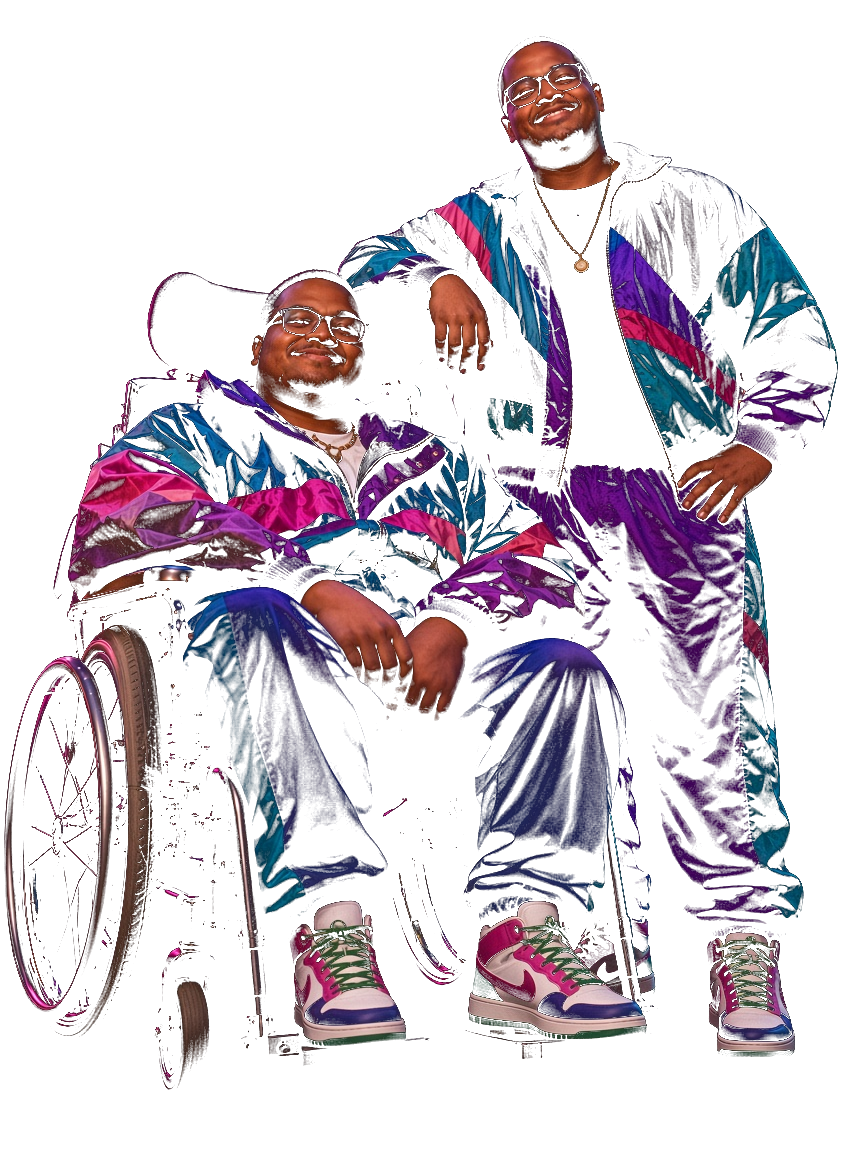
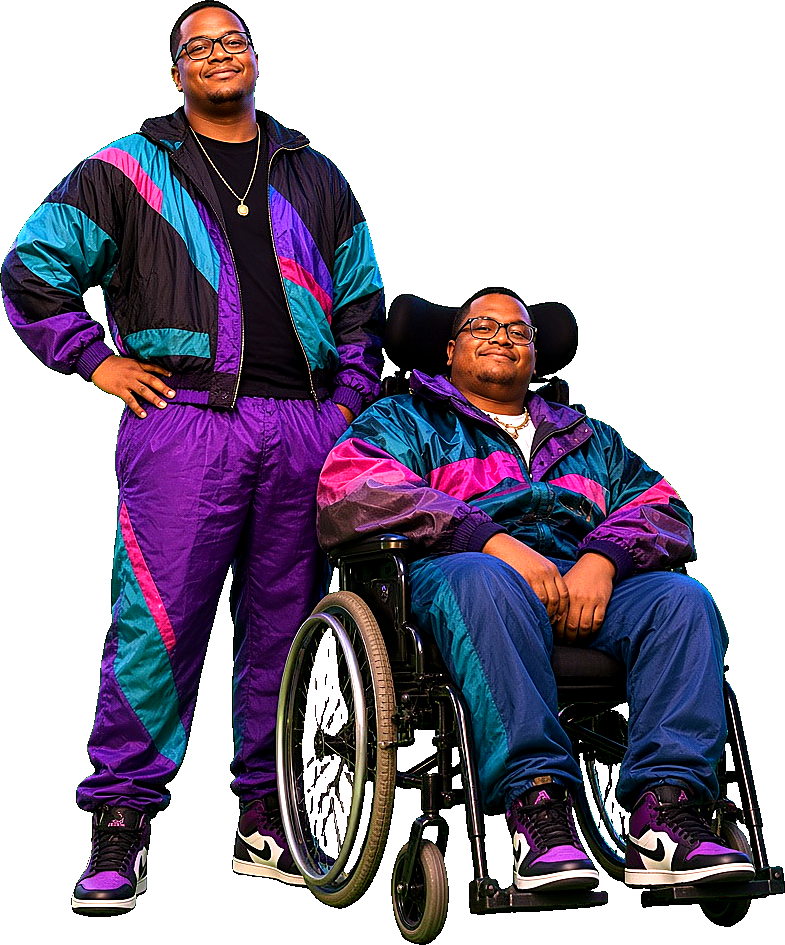
Hard hero cutout + physical cassette pile
RemBG binary-alpha couple on separate Miami BG; cassette stack uses real jewel-case art with handwritten labels, hover wiggle, insert into boombox.

diff --git a/src/components/Cassette.tsx b/src/components/Cassette.tsx
@@ -1,88 +1,102 @@
 "use client";
 
 import { motion } from "framer-motion";
+import Image from "next/image";
 import type { Track } from "@/lib/types";
 
-/** Photoreal-ish horizontal cassette case with handwritten label (HTML text). */
+/** Physical cassette jewel-case pile — not neon UI rows. */
 export function Cassette({
   track,
   index,
+  total,
   selected,
   inserting,
   onSelect,
 }: {
   track: Track;
   index: number;
+  total: number;
   selected: boolean;
   inserting: boolean;
   onSelect: () => void;
 }) {
+  // Overlapping pile: each tape mostly covers the one below, slight skew
+  const restRotate = -3 + index * 0.7 + (index % 2 ? 1.4 : -1);
+  // Enough offset that each handwritten label stays visible in the pile
+  const restY = index * 58;
+  const restX = index * 4 + (index % 2 ? 10 : -2);
+
   return (
     <motion.button
       type="button"
-      layout
       onClick={onSelect}
       initial={false}
-      whileHover={{ x: 10, rotate: -1.5, scale: 1.03 }}
-      whileTap={{ scale: 0.97 }}
+      className="absolute left-1/2 w-[min(100%,310px)] -translate-x-1/2 border-0 bg-transparent p-0 outline-none focus-visible:ring-2 focus-visible:ring-pink-400/50"
+      style={{ top: 0, zIndex: inserting ? 50 : total - index + (selected ? 20 : 0) }}
       animate={
         inserting
-          ? { x: -120, y: -40, rotate: -18, scale: 0.55, opacity: 0.35 }
-          : selected
-            ? { x: 8, scale: 1.04, boxShadow: "0 0 22px #ff2bd680" }
-            : { x: 0, y: 0, rotate: 0, scale: 1, opacity: 1 }
+          ? { x: "-70%", y: restY - 120, rotate: -32, scale: 0.4, opacity: 0.15 }
+          : {
+              x: `calc(-50% + ${restX}px)`,
+              y: restY,
+              rotate: selected ? restRotate - 1.5 : restRotate,
+              scale: selected ? 1.05 : 1,
+              opacity: 1,
+            }
       }
-      transition={{ type: "spring", stiffness: 260, damping: 22 }}
-      className="group relative block w-full max-w-[280px] text-left"
-      style={{ zIndex: selected ? 20 : 10 - index }}
+      whileHover={
+        inserting
+          ? undefined
+          : {
+              rotate: restRotate + (index % 2 ? -5 : 5),
+              y: restY - 10,
+              x: `calc(-50% + ${restX + (index % 2 ? -14 : 14)}px)`,
+              transition: { type: "spring", stiffness: 420, damping: 12 },
+            }
+      }
+      whileTap={{ scale: 0.95 }}
+      transition={{ type: "spring", stiffness: 260, damping: 18 }}
+      aria-label={`${track.artist} – ${track.title}`}
       aria-pressed={selected}
     >
-      <div
-        className="relative overflow-hidden rounded-[6px] border border-white/30 shadow-[0_12px_28px_#000a]"
-        style={{
-          background: `linear-gradient(135deg, ${track.color}cc, ${track.color}55 40%, #111 100%)`,
-        }}
-      >
-        <div className="m-[6px] rounded-[3px] border border-black/40 bg-[#0c0c10]">
-          <div className="relative flex h-[58px] items-center gap-3 px-3 sm:h-[64px]">
-            <div className="flex gap-3">
-              <Reel spinning={selected} />
-              <Reel spinning={selected} />
-            </div>
-            <div className="min-w-0 flex-1">
-              <p
-                className="tape-label truncate text-[15px] text-white drop-shadow sm:text-[17px]"
-                style={{ textShadow: "0 0 8px #000" }}
-              >
-                {track.artist} – {track.title}
-              </p>
-              <p className="text-[9px] uppercase tracking-[0.2em] text-white/70">
-                Side A · Tape {index + 1}
-              </p>
-            </div>
-          </div>
-          <div
-            className="h-2 w-full"
-            style={{ background: track.color, boxShadow: `0 0 12px ${track.color}` }}
+      <span className="relative block">
+        <Image
+          src="/images/cassette-case-blank.png"
+          alt=""
+          width={620}
+          height={350}
+          className="pointer-events-none h-auto w-full select-none"
+          style={{
+            filter: "drop-shadow(0 16px 22px rgba(0,0,0,0.65))",
+          }}
+          draggable={false}
+        />
+        {/* Physical paper label — cream paper + colored ink handwriting */}
+        <span
+          className="pointer-events-none absolute left-[13%] right-[13%] top-[36%] flex h-[26%] flex-col justify-center overflow-hidden rounded-[1px] px-2.5 py-1"
+          style={{
+            background:
+              "linear-gradient(180deg, #f7f0e1 0%, #efe6d2 55%, #e5d9c0 100%)",
+            boxShadow: "inset 0 0 0 1px rgba(0,0,0,0.2), 0 1px 2px rgba(0,0,0,0.25)",
+          }}
+        >
+          <span
+            className="block h-1 w-full mb-1 rounded-sm opacity-90"
+            style={{ background: track.color }}
+            aria-hidden
           />
-        </div>
-        <div className="pointer-events-none absolute inset-0 bg-gradient-to-br from-white/25 via-transparent to-transparent" />
-      </div>
+          <span
+            className="block truncate font-[family-name:var(--font-script)] text-[15px] leading-none sm:text-[17px]"
+            style={{ color: track.color, transform: "rotate(-1deg)" }}
+          >
+            {track.artist} – {track.title}
+          </span>
+        </span>
+      </span>
     </motion.button>
   );
 }
 
-function Reel({ spinning }: { spinning: boolean }) {
-  return (
-    <motion.span
-      className="relative block h-7 w-7 rounded-full border border-zinc-500 bg-gradient-to-br from-zinc-200 to-zinc-500 shadow-inner"
-      animate={spinning ? { rotate: 360 } : { rotate: 0 }}
-      transition={
-        spinning ? { duration: 1.1, repeat: Infinity, ease: "linear" } : { duration: 0.3 }
-      }
-    >
-      <span className="absolute left-1/2 top-1/2 h-2 w-2 -translate-x-1/2 -translate-y-1/2 rounded-full bg-zinc-800" />
-      <span className="absolute inset-[3px] rounded-full border border-dashed border-zinc-600/80" />
-    </motion.span>
-  );
+export function CassetteStackHeight(count: number) {
+  return 58 * Math.max(count - 1, 0) + 180;
 }

diff --git a/src/components/Mixtape.tsx b/src/components/Mixtape.tsx
@@ -4,7 +4,7 @@ import { AnimatePresence, motion, useScroll, useTransform } from "framer-motion"
 import Image from "next/image";
 import { useEffect, useRef, useState } from "react";
 import type { Track } from "@/lib/types";
-import { Cassette } from "./Cassette";
+import { Cassette, CassetteStackHeight } from "./Cassette";
 import { useLightParallax } from "./Parallax";
 
 export function Mixtape({
@@ -44,7 +44,7 @@ export function Mixtape({
     setInsertingId(id);
     setActiveId(id);
     setPlaying(true);
-    window.setTimeout(() => setInsertingId(null), 650);
+    window.setTimeout(() => setInsertingId(null), 700);
   };
 
   const togglePlay = async () => {
@@ -63,6 +63,8 @@ export function Mixtape({
     }
   };
 
+  const stackH = CassetteStackHeight(sorted.length);
+
   return (
     <section
       ref={sectionRef}
@@ -80,8 +82,7 @@ export function Mixtape({
         <div className="absolute inset-0 bg-gradient-to-b from-[#05010f] via-transparent to-[#05010f]" />
       </motion.div>
 
-      <div className="relative z-10 mx-auto grid min-h-[100svh] max-w-6xl items-end gap-6 px-4 pb-16 pt-28 md:grid-cols-[1.15fr_0.85fr] md:items-center md:px-6 md:pb-24">
-        {/* Boombox + headphones on the table */}
+      <div className="relative z-10 mx-auto grid min-h-[100svh] max-w-6xl items-end gap-8 px-4 pb-16 pt-28 md:grid-cols-[1.1fr_0.9fr] md:items-center md:gap-4 md:px-6 md:pb-24">
         <motion.div className="relative" style={{ y: propY }}>
           <div className="relative mx-auto w-full max-w-xl">
             <Image
@@ -90,24 +91,33 @@ export function Mixtape({
               width={900}
               height={560}
               className="h-auto w-full drop-shadow-[0_30px_50px_#000c]"
-              priority={false}
             />
-            {/* Spinning reels overlay on deck area */}
             <div className="pointer-events-none absolute left-[28%] top-[42%] flex gap-8 sm:left-[30%] sm:top-[44%] sm:gap-12">
               <DeckReel spinning={playing} />
               <DeckReel spinning={playing} />
             </div>
-            {/* Inserting tape ghost */}
             <AnimatePresence>
               {insertingId && active && (
                 <motion.div
                   key={insertingId}
-                  initial={{ opacity: 0, x: 80, y: 40, scale: 0.6 }}
-                  animate={{ opacity: 1, x: 0, y: 0, scale: 0.85 }}
-                  exit={{ opacity: 0, scale: 0.4, y: -10 }}
-                  className="absolute left-[32%] top-[38%] h-10 w-28 rounded-sm border border-white/40"
-                  style={{ background: active.color }}
-                />
+                  initial={{ opacity: 0, x: 100, y: 50, rotate: 12, scale: 0.7 }}
+                  animate={{ opacity: 1, x: 0, y: 0, rotate: 0, scale: 0.9 }}
+                  exit={{ opacity: 0, scale: 0.3, y: -8 }}
+                  transition={{ duration: 0.45 }}
+                  className="absolute left-[30%] top-[36%] z-10 w-[34%]"
+                >
+                  <Image
+                    src="/images/cassette-case-blank.png"
+                    alt=""
+                    width={280}
+                    height={160}
+                    className="h-auto w-full"
+                  />
+                  <div
+                    className="absolute left-[14%] right-[14%] top-[38%] h-[22%] rounded-[2px]"
+                    style={{ background: active.color }}
+                  />
+                </motion.div>
               )}
             </AnimatePresence>
             <Image
@@ -141,36 +151,37 @@ export function Mixtape({
           <audio ref={audioRef} preload="none" onEnded={() => setPlaying(false)} className="hidden" />
         </motion.div>
 
-        {/* Cassette stack */}
-        <div className="relative pb-6 md:pb-0">
-          <div className="mb-6 flex items-start gap-3">
+        {/* Physical cassette pile on the table */}
+        <div className="relative pb-4 md:pb-0">
+          <div className="mb-5 flex items-end gap-3">
             <h2 className="neon-script-lg text-3xl leading-tight sm:text-4xl md:text-5xl">
               {headline}
             </h2>
             <svg
-              className="mt-3 hidden shrink-0 text-neon-pink sm:block"
+              className="mb-2 hidden shrink-0 text-neon-pink sm:block"
               width="56"
-              height="40"
-              viewBox="0 0 56 40"
+              height="36"
+              viewBox="0 0 56 36"
               fill="none"
               aria-hidden
             >
               <path
-                d="M4 20c12-12 28-14 40-8"
+                d="M4 18c12-10 28-12 40-6"
                 stroke="currentColor"
                 strokeWidth="2.5"
                 strokeLinecap="round"
-                filter="url(#g)"
               />
               <path d="M38 8l10 6-8 4" stroke="currentColor" strokeWidth="2.5" strokeLinecap="round" />
             </svg>
           </div>
-          <div className="flex flex-col gap-3">
+
+          <div className="relative mx-auto w-full max-w-[320px]" style={{ height: stackH }}>
             {sorted.map((t, idx) => (
               <Cassette
                 key={t.id}
                 track={t}
                 index={idx}
+                total={sorted.length}
                 selected={t.id === active?.id}
                 inserting={insertingId === t.id}
                 onSelect={() => selectTape(t.id)}

diff --git a/src/components/Hero.tsx b/src/components/Hero.tsx
@@ -13,52 +13,54 @@ export function Hero({ content }: { content: SiteContent }) {
     target: ref,
     offset: ["start start", "end start"],
   });
-  const bgY = useTransform(scrollYProgress, [0, 1], light ? ["0%", "0%"] : ["0%", "22%"]);
-  const coupleY = useTransform(scrollYProgress, [0, 1], light ? ["0%", "0%"] : ["0%", "10%"]);
-  const coupleX = useTransform(scrollYProgress, [0, 1], light ? ["0%", "0%"] : ["0%", "-3%"]);
-  const textY = useTransform(scrollYProgress, [0, 1], light ? ["0%", "0%"] : ["0%", "28%"]);
-  const textOpacity = useTransform(scrollYProgress, [0, 0.7], [1, 0.15]);
+  const bgY = useTransform(scrollYProgress, [0, 1], light ? ["0%", "0%"] : ["0%", "18%"]);
+  const coupleY = useTransform(scrollYProgress, [0, 1], light ? ["0%", "0%"] : ["0%", "8%"]);
+  const textY = useTransform(scrollYProgress, [0, 1], light ? ["0%", "0%"] : ["0%", "22%"]);
+  const textOpacity = useTransform(scrollYProgress, [0, 0.75], [1, 0.2]);
 
   return (
     <section ref={ref} id="home" className="relative min-h-[100svh] w-full overflow-hidden">
-      {/* Layer 1 — Miami night / palms */}
-      <motion.div className="absolute inset-[-8%] z-0" style={{ y: bgY }}>
+      {/* Separate Miami night / palm background */}
+      <motion.div className="absolute inset-[-6%] z-0" style={{ y: bgY }}>
         <Image
           src="/images/hero-bg-miami.jpg"
           alt=""
           fill
           priority
-          className="object-cover object-center"
+          className="object-cover object-[center_40%]"
           sizes="100vw"
         />
-        <div className="absolute inset-0 bg-gradient-to-r from-[#05010ff0] via-[#05010f88] to-transparent" />
-        <div className="absolute inset-0 bg-gradient-to-t from-[#05010f] via-transparent to-[#05010f55]" />
       </motion.div>
+      {/* Readability gradients — do NOT fade the couple layer */}
+      <div className="pointer-events-none absolute inset-0 z-[1] bg-gradient-to-r from-[#05010ff5] via-[#05010f66] to-transparent md:via-[#05010f40]" />
+      <div className="pointer-events-none absolute inset-0 z-[1] bg-gradient-to-t from-[#05010f] via-transparent to-[#05010f55]" />
 
-      {/* Layer 2 — birthday boys cutout (strong presence, left/center) */}
+      {/* Hard cutout couple — opaque PNG via <img>, no blend into city */}
       <motion.div
-        className="pointer-events-none absolute inset-y-0 left-[-4%] right-0 z-[2] md:left-[8%] lg:left-[18%]"
-        style={{ y: coupleY, x: coupleX }}
+        className="pointer-events-none absolute bottom-0 right-[-4%] z-[4] flex h-[84%] w-[85%] max-w-[780px] items-end justify-center sm:right-[0%] md:left-[26%] md:right-auto md:w-[60%] lg:left-[30%] lg:w-[54%]"
+        style={{ y: coupleY }}
       >
-        <div className="relative h-full w-full max-w-[920px]">
-          <Image
-            src="/images/hero-couple-cutout.png"
-            alt="Landon and Jordan in 80s windbreakers"
-            fill
-            priority
-            className="object-contain object-bottom drop-shadow-[0_20px_50px_#000c]"
-            sizes="(max-width:768px) 100vw, 70vw"
-          />
-        </div>
+        {/* Contact shadow so subjects sit ON the scene, not dissolve into pier */}
+        <div
+          aria-hidden
+          className="absolute bottom-[2%] left-1/2 z-0 h-[7%] w-[62%] -translate-x-1/2 rounded-[100%] bg-black/70 blur-2xl"
+        />
+        {/* eslint-disable-next-line @next/next/no-img-element */}
+        <img
+          src={`/images/hero-couple-cutout.png?v=hard2`}
+          alt="Landon and Jordan in 80s windbreakers"
+          className="relative z-[1] max-h-full w-auto max-w-full object-contain object-bottom"
+          style={{
+            opacity: 1,
+            mixBlendMode: "normal",
+            isolation: "isolate",
+            filter: "drop-shadow(0 10px 18px rgba(0,0,0,0.9))",
+          }}
+          draggable={false}
+        />
       </motion.div>
 
-      {/* Soft floor glow under couple */}
-      <div
-        aria-hidden
-        className="pointer-events-none absolute bottom-[8%] left-[10%] z-[3] h-24 w-[50%] max-w-xl rounded-[100%] bg-fuchsia-500/25 blur-3xl"
-      />
-
-      {/* Layer 3 — typography */}
+      {/* Typography layer */}
       <motion.div
         className="relative z-10 mx-auto flex min-h-[100svh] max-w-6xl flex-col justify-center px-4 pb-28 pt-28 md:px-6"
         style={{ y: textY, opacity: textOpacity }}
@@ -67,7 +69,7 @@ export function Hero({ content }: { content: SiteContent }) {
           initial={{ opacity: 0, y: 28 }}
           animate={{ opacity: 1, y: 0 }}
           transition={{ duration: 0.85, ease: [0.22, 1, 0.36, 1] }}
-          className="max-w-xl"
+          className="max-w-[min(100%,28rem)]"
         >
           <div className="mb-1 flex items-center gap-2">
             <span className="text-2xl text-neon-gold drop-shadow-[0_0_10px_#ffd700]" aria-hidden>
